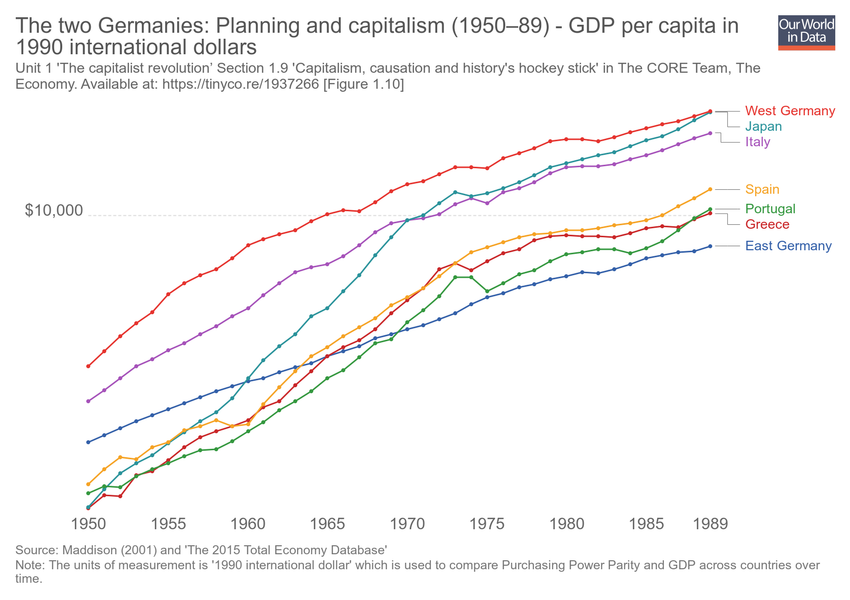
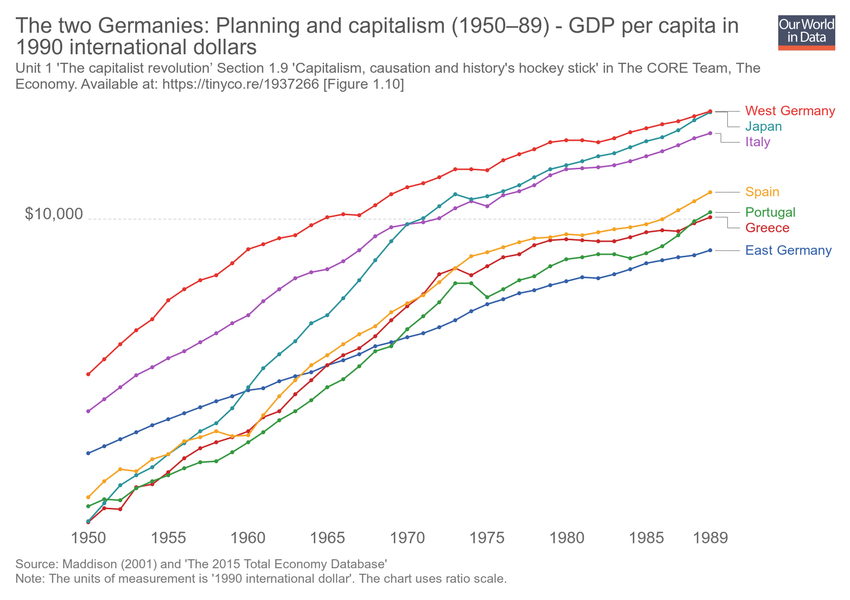
Updating chart the-two-germanies-planning-and-capitalism-195089

diff --git a/grapher/the-two-germanies-planning-and-capitalism-195089.html b/grapher/the-two-germanies-planning-and-capitalism-195089.html
@@ -1,4 +1,4 @@
-<!doctype html><html><head><meta name="viewport" content="width=device-width, initial-scale=1" /><title>The two Germanies: Planning and capitalism (1950–89) - GDP per capita in 1990 international dollars - Our World in Data</title><meta name="description" content="Unit 1 'The capitalist revolution’ Section 1.9 'Capitalism, causation and history's hockey stick' in The CORE Team, The Economy. Available at: https://tinyco.re/1937266 [Figure 1.10]" /><link rel="canonical" href="https://ourworldindata.org/grapher/the-two-germanies-planning-and-capitalism-195089" /><meta property="fb:app_id" content="1149943818390250" /><meta property="og:url" content="https://ourworldindata.org/grapher/the-two-germanies-planning-and-capitalism-195089" /><meta property="og:title" content="The two Germanies: Planning and capitalism (1950–89) - GDP per capita in 1990 international dollars" /><meta property="og:description" content="Unit 1 'The capitalist revolution’ Section 1.9 'Capitalism, causation and history's hockey stick' in The CORE Team, The Economy. Available at: https://tinyco.re/1937266 [Figure 1.10]" /><meta property="og:image" content="https://ourworldindata.org/grapher/exports/the-two-germanies-planning-and-capitalism-195089.png?v=12" /><meta property="og:image:width" content="850" /><meta property="og:image:height" content="600" /><meta property="og:site_name" content="Our World in Data" /><meta name="twitter:card" content="summary_large_image" /><meta name="twitter:site" content="@OurWorldInData" /><meta name="twitter:creator" content="@OurWorldInData" /><meta name="twitter:title" content="The two Germanies: Planning and capitalism (1950–89) - GDP per capita in 1990 international dollars" /><meta name="twitter:description" content="Unit 1 'The capitalist revolution’ Section 1.9 'Capitalism, causation and history's hockey stick' in The CORE Team, The Economy. Available at: https://tinyco.re/1937266 [Figure 1.10]" /><meta name="twitter:image" content="https://ourworldindata.org/grapher/exports/the-two-germanies-planning-and-capitalism-195089.png?v=12" /><style>
+<!doctype html><html><head><meta name="viewport" content="width=device-width, initial-scale=1" /><title>The two Germanies: Planning and capitalism (1950–89) - GDP per capita in 1990 international dollars - Our World in Data</title><meta name="description" content="Unit 1 'The capitalist revolution’ Section 1.9 'Capitalism, causation and history's hockey stick' in The CORE Team, The Economy. Available at: https://tinyco.re/1937266 [Figure 1.10]" /><link rel="canonical" href="https://ourworldindata.org/grapher/the-two-germanies-planning-and-capitalism-195089" /><meta property="fb:app_id" content="1149943818390250" /><meta property="og:url" content="https://ourworldindata.org/grapher/the-two-germanies-planning-and-capitalism-195089" /><meta property="og:title" content="The two Germanies: Planning and capitalism (1950–89) - GDP per capita in 1990 international dollars" /><meta property="og:description" content="Unit 1 'The capitalist revolution’ Section 1.9 'Capitalism, causation and history's hockey stick' in The CORE Team, The Economy. Available at: https://tinyco.re/1937266 [Figure 1.10]" /><meta property="og:image" content="https://ourworldindata.org/grapher/exports/the-two-germanies-planning-and-capitalism-195089.png?v=13" /><meta property="og:image:width" content="850" /><meta property="og:image:height" content="600" /><meta property="og:site_name" content="Our World in Data" /><meta name="twitter:card" content="summary_large_image" /><meta name="twitter:site" content="@OurWorldInData" /><meta name="twitter:creator" content="@OurWorldInData" /><meta name="twitter:title" content="The two Germanies: Planning and capitalism (1950–89) - GDP per capita in 1990 international dollars" /><meta name="twitter:description" content="Unit 1 'The capitalist revolution’ Section 1.9 'Capitalism, causation and history's hockey stick' in The CORE Team, The Economy. Available at: https://tinyco.re/1937266 [Figure 1.10]" /><meta name="twitter:image" content="https://ourworldindata.org/grapher/exports/the-two-germanies-planning-and-capitalism-195089.png?v=13" /><style>
         html, body {
             height: 100%;
             margin: 0;
@@ -20,8 +20,8 @@
         }
     </style><noscript><style>
                     figure { display: none !important; }
-                </style></noscript><link rel="stylesheet" href="https://ourworldindata.org/grapher/assets/commons.bundle.397229a8467cf53bfc99.css" /><link rel="preload" href="/grapher/data/variables/98013.json?v=12" as="fetch" crossorigin /></head><body class="singleChart"><figure data-grapher-src="/grapher/the-two-germanies-planning-and-capitalism-195089"></figure><noscript id="fallback"><img src="/grapher/exports/the-two-germanies-planning-and-capitalism-195089.svg" /><p>Interactive visualization requires JavaScript</p></noscript><script src="https://cdn.polyfill.io/v2/polyfill.min.js?features=es6,fetch"></script><script src="https://ourworldindata.org/grapher/assets/commons.bundle.397229a8467cf53bfc99.js"></script><script src="https://ourworldindata.org/grapher/assets/charts.bundle.397229a8467cf53bfc99.js"></script><script>
-        var jsonConfig = {"id":3016,"map":{"projection":"World","targetYear":1989,"variableId":98013,"colorSchemeLabels":[],"colorSchemeValues":[],"customNumericColors":[],"customCategoryColors":{},"customCategoryLabels":{},"customHiddenCategories":{}},"tab":"chart","note":"The units of measurement is '1990 international dollar' which is used to compare Purchasing Power Parity and GDP across countries over time.","slug":"the-two-germanies-planning-and-capitalism-195089","type":"LineChart","title":"The two Germanies: Planning and capitalism (1950–89) - GDP per capita in 1990 international dollars","xAxis":{"scaleType":"linear"},"yAxis":{"scaleType":"log","canChangeScaleType":true},"version":12,"subtitle":"Unit 1 'The capitalist revolution’ Section 1.9 'Capitalism, causation and history's hockey stick' in The CORE Team, The Economy. Available at: https://tinyco.re/1937266 [Figure 1.10]","hasMapTab":true,"stackMode":"absolute","dimensions":[{"display":{},"property":"y","variableId":98013}],"hasChartTab":true,"isPublished":true,"selectedData":[{"index":0,"entityId":186},{"index":0,"entityId":149},{"index":0,"entityId":8},{"index":0,"entityId":14},{"index":0,"entityId":95},{"index":0,"entityId":9},{"index":0,"entityId":185}],"internalNotes":"core-econ.org","addCountryMode":"add-country"};
+                </style></noscript><link rel="stylesheet" href="https://ourworldindata.org/grapher/assets/commons.bundle.397229a8467cf53bfc99.css" /><link rel="preload" href="/grapher/data/variables/98013.json?v=13" as="fetch" crossorigin /></head><body class="singleChart"><figure data-grapher-src="/grapher/the-two-germanies-planning-and-capitalism-195089"></figure><noscript id="fallback"><img src="/grapher/exports/the-two-germanies-planning-and-capitalism-195089.svg" /><p>Interactive visualization requires JavaScript</p></noscript><script src="https://cdn.polyfill.io/v2/polyfill.min.js?features=es6,fetch"></script><script src="https://ourworldindata.org/grapher/assets/commons.bundle.397229a8467cf53bfc99.js"></script><script src="https://ourworldindata.org/grapher/assets/charts.bundle.397229a8467cf53bfc99.js"></script><script>
+        var jsonConfig = {"id":3016,"map":{"projection":"World","targetYear":1989,"variableId":98013,"colorSchemeLabels":[],"colorSchemeValues":[],"customNumericColors":[],"customCategoryColors":{},"customCategoryLabels":{},"customHiddenCategories":{}},"tab":"chart","note":"The units of measurement is '1990 international dollar'. The chart uses ratio scale.","slug":"the-two-germanies-planning-and-capitalism-195089","type":"LineChart","title":"The two Germanies: Planning and capitalism (1950–89) - GDP per capita in 1990 international dollars","xAxis":{"scaleType":"linear"},"yAxis":{"scaleType":"log","canChangeScaleType":true},"version":13,"subtitle":"Unit 1 'The capitalist revolution’ Section 1.9 'Capitalism, causation and history's hockey stick' in The CORE Team, The Economy. Available at: https://tinyco.re/1937266 [Figure 1.10]","hasMapTab":true,"stackMode":"absolute","dimensions":[{"display":{},"property":"y","variableId":98013}],"hasChartTab":true,"isPublished":true,"selectedData":[{"index":0,"entityId":186},{"index":0,"entityId":149},{"index":0,"entityId":8},{"index":0,"entityId":14},{"index":0,"entityId":95},{"index":0,"entityId":9},{"index":0,"entityId":185}],"internalNotes":"core-econ.org","addCountryMode":"add-country"};
         var figure = document.getElementsByTagName("figure")[0];
         try {
             window.App = {};
